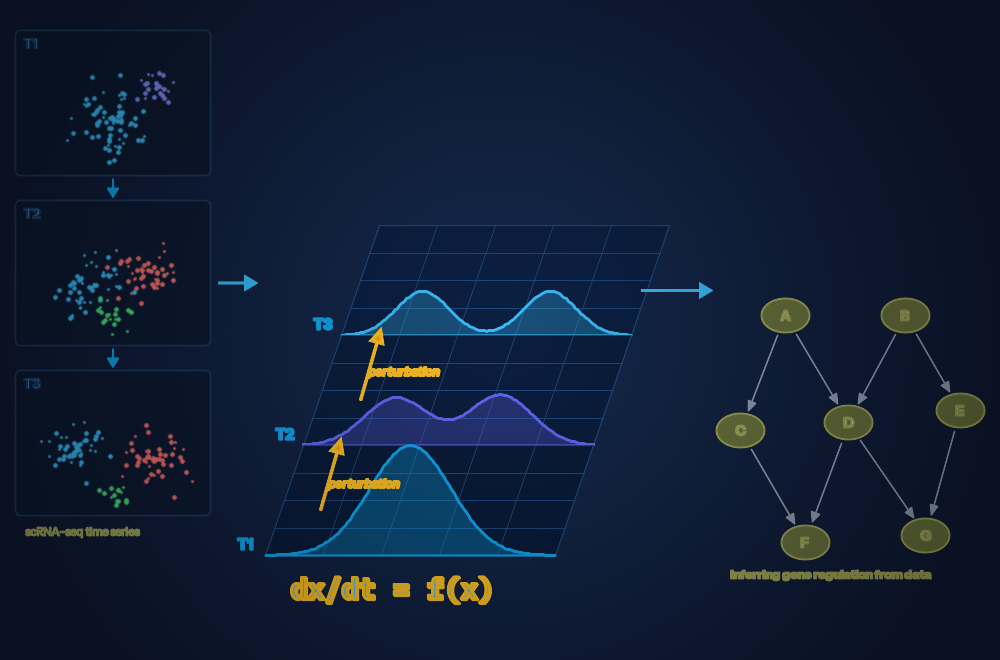
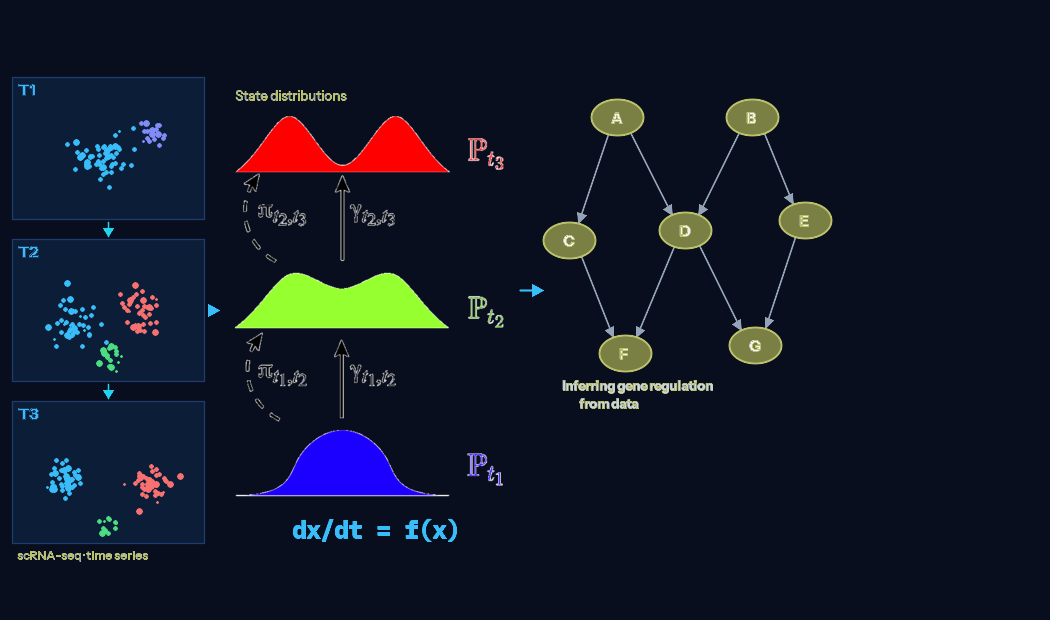
Improve dynamics figure + brighten research card captions
- Replace synthesized distribution curves with real P(t1)/P(t2)/P(t3) stacked bell curve figure from original talk
- Remove all text stroke/outline in figure (sharp clean labels)
- Fix layout: UMAP scatter plots → real distribution image → gene regulatory network
- Brighten all 4 research card figure captions from text-slate-600 to text-slate-300

diff --git a/index.html b/index.html
@@ -239,7 +239,7 @@
           <img src="figures/fig_bayesprism.png" alt="BayesPrism algorithm: scRNA-seq + bulk RNA-seq → joint posterior → deconvolved cell-type fractions and gene expression"
                class="w-full object-contain max-h-44" />
         </div>
-        <p class="text-slate-600 text-xs mt-2 italic">BayesPrism: scRNA-seq + bulk RNA-seq → joint posterior P(U,μ|φ,X) → deconvolved cell-type fractions &amp; gene expression per sample.</p>
+        <p class="text-slate-300 text-xs mt-2 italic">BayesPrism: scRNA-seq + bulk RNA-seq → joint posterior P(U,μ|φ,X) → deconvolved cell-type fractions &amp; gene expression per sample.</p>
       </div>
 
       <!-- R2: Spatial Transcriptomics -->
@@ -266,7 +266,7 @@
                  class="w-full object-contain max-h-32" />
           </div>
         </div>
-        <p class="text-slate-600 text-xs mt-2 italic">Top: SpaceFold maps 30+ cell types along the crypt–villus axis (Cell Stem Cell 2022). Bottom: PrismSpot identifies spatially variable gene programs within specific cell types (Nature Cancer 2024).</p>
+        <p class="text-slate-300 text-xs mt-2 italic">Top: SpaceFold maps 30+ cell types along the crypt–villus axis (Cell Stem Cell 2022). Bottom: PrismSpot identifies spatially variable gene programs within specific cell types (Nature Cancer 2024).</p>
       </div>
 
       <!-- R3: cfRNA -->
@@ -304,7 +304,7 @@
                  class="w-full h-full object-contain max-h-32" />
           </div>
         </div>
-        <p class="text-slate-600 text-xs mt-2 italic">Top: cells shed RNA into circulation — cfRNA carries multi-organ cell-type signatures. Grid: cell-type fractions shift dynamically across transplant phases; distance-from-health predicts complications; cell-type origin pinpoints damaged organs.</p>
+        <p class="text-slate-300 text-xs mt-2 italic">Top: cells shed RNA into circulation — cfRNA carries multi-organ cell-type signatures. Grid: cell-type fractions shift dynamically across transplant phases; distance-from-health predicts complications; cell-type origin pinpoints damaged organs.</p>
       </div>
 
       <!-- R4: Dynamics -->
@@ -323,7 +323,7 @@
           <img src="figures/fig_dynamics_render.png" alt="Time-series perturbation data (T1→T2→T3) → Neural ODE dx/dt=f(x) → infer gene regulatory dynamics"
                class="w-full object-contain rounded-xl max-h-52" style="background:#080e1d" />
         </div>
-        <p class="text-slate-600 text-xs mt-2 italic">Time-series / perturbation single-cell data (T1→T2→T3) → Neural ODE dx/dt=f(x) → infer gene regulatory dynamics and predict perturbation responses.</p>
+        <p class="text-slate-300 text-xs mt-2 italic">Time-series / perturbation single-cell data (T1→T2→T3) → Neural ODE dx/dt=f(x) → infer gene regulatory dynamics and predict perturbation responses.</p>
       </div>
 
     </div>
